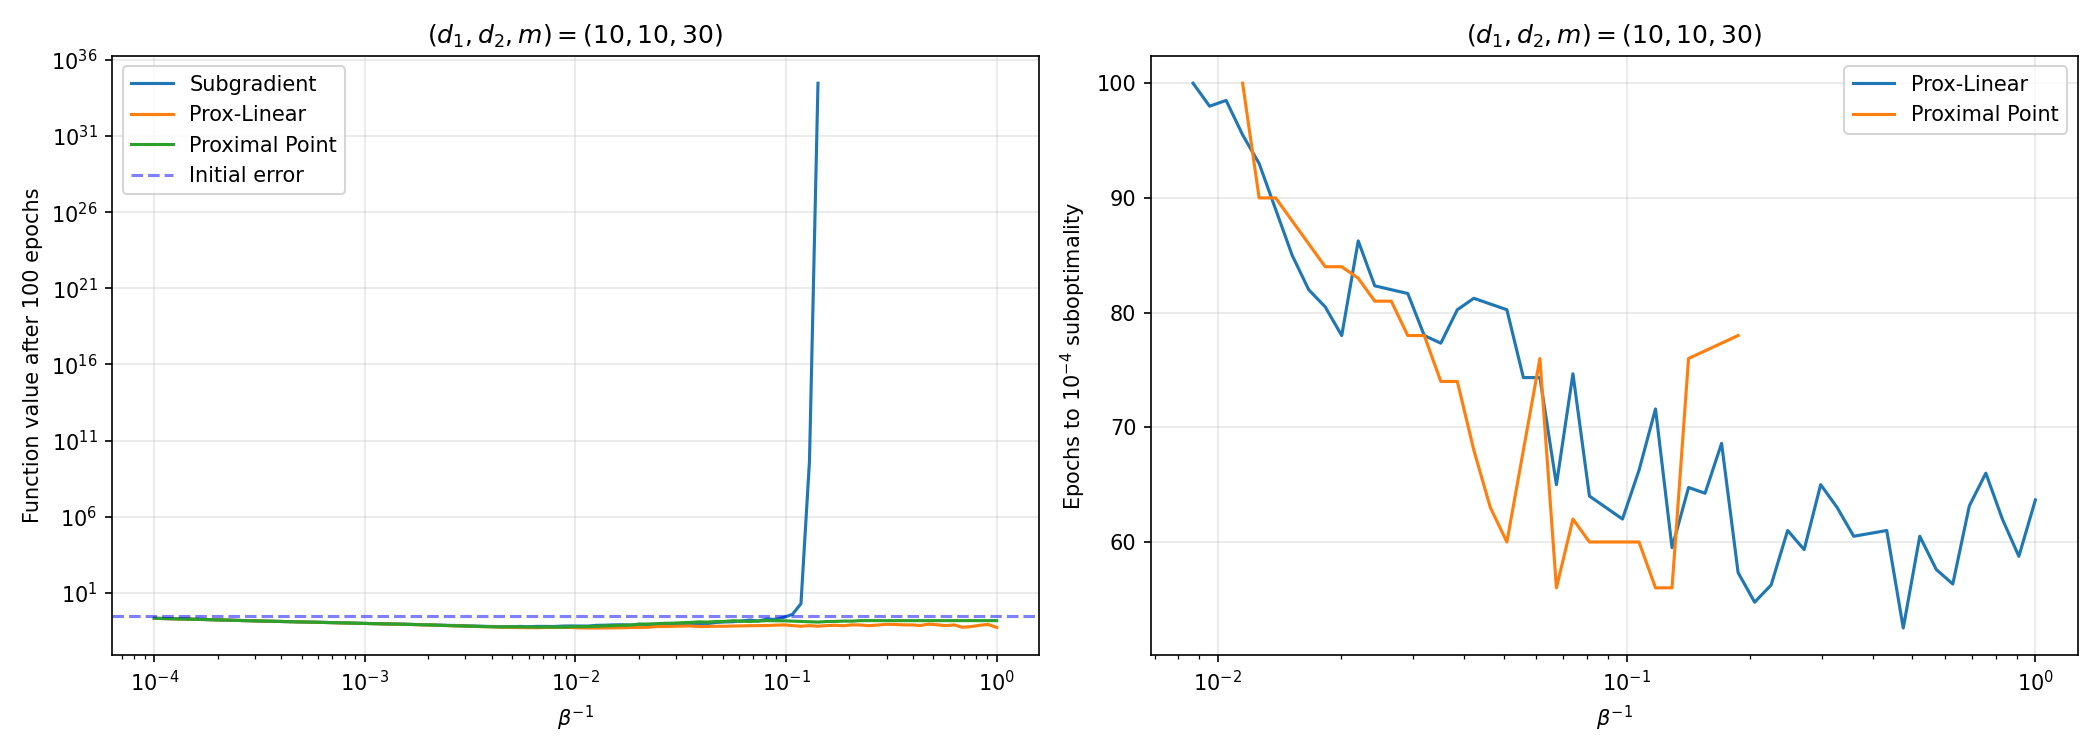
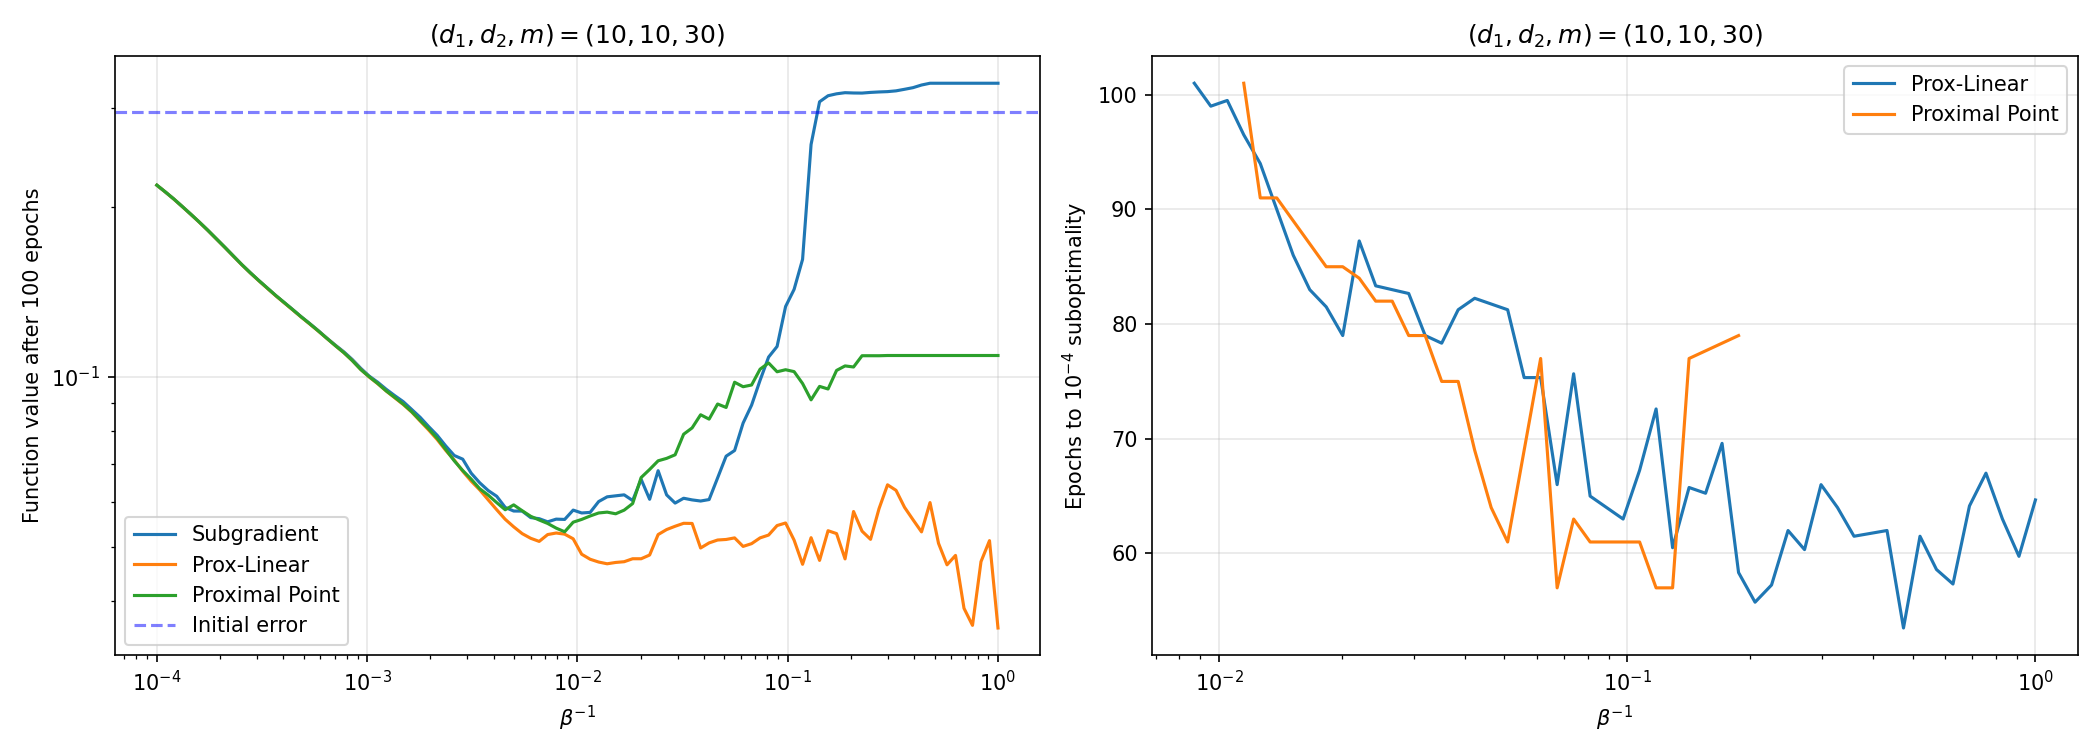
feat: update initial error computation in blind deconvolution and phase retrieval experiments to average over multiple rounds; adjust ylabel for clarity

diff --git a/experiments/phase_retrieval.py b/experiments/phase_retrieval.py
@@ -160,9 +160,8 @@ def plot_config(d, m, inv_betas, final_objs, epochs_to_target, initial_error, sa
         y=initial_error, color="blue", linestyle="--", alpha=0.5, label="Initial error"
     )
     ax1.set_xlabel(r"$\beta^{-1}$")
-    ax1.set_ylabel("Function value after 100 epochs")
+    ax1.set_ylabel("Best function value")
     ax1.set_title(f"(d, m) = ({d}, {m})")
-    ax1.set_yscale("log")
     ax1.set_xscale("log")
     ax1.legend()
     ax1.grid(True, alpha=0.3)
@@ -196,13 +195,17 @@ def main():
     for d, m in configs:
         inv_betas, final_objs, epochs_to_target = run_config(d, m)
 
-        # Compute initial error for the dashed line
+        # Compute initial error averaged over the same rounds used in run_config
         data, _ = generate_phase_retrieval_data(d, m, seed=42)
         prob = SubgradientPhaseRetrieval(rho=2.0)
-        torch.manual_seed(0)
-        x0 = torch.randn(d)
-        x0 = x0 / torch.norm(x0)
-        initial_error = prob.population_objective(x0, data)
+        n_rounds = 15
+        initial_errors = []
+        for r in range(n_rounds):
+            torch.manual_seed(r)
+            x0 = torch.randn(d)
+            x0 = x0 / torch.norm(x0)
+            initial_errors.append(prob.population_objective(x0, data))
+        initial_error = np.mean(initial_errors)
 
         plot_config(
             d, m, inv_betas, final_objs, epochs_to_target, initial_error, save_dir

diff --git a/experiments/blind_deconvolution.py b/experiments/blind_deconvolution.py
@@ -169,9 +169,8 @@ def plot_config(
         y=initial_error, color="blue", linestyle="--", alpha=0.5, label="Initial error"
     )
     ax1.set_xlabel(r"$\beta^{-1}$")
-    ax1.set_ylabel("Function value after 100 epochs")
+    ax1.set_ylabel("Best function value")
     ax1.set_title(f"$(d_1, d_2, m) = ({d1}, {d2}, {m})$")
-    ax1.set_yscale("log")
     ax1.set_xscale("log")
     ax1.legend()
     ax1.grid(True, alpha=0.3)
@@ -207,10 +206,14 @@ def main():
         data, _ = generate_blind_deconv_data(d1, d2, m, seed=42)
         prob = BlindDeconvSubgradient(d1=d1, rho=2.0)
         d_total = d1 + d2
-        torch.manual_seed(0)
-        z0 = torch.randn(d_total)
-        z0 = z0 / torch.norm(z0)
-        initial_error = prob.population_objective(z0, data)
+        n_rounds = 15
+        initial_errors = []
+        for r in range(n_rounds):
+            torch.manual_seed(r)
+            z0 = torch.randn(d_total)
+            z0 = z0 / torch.norm(z0)
+            initial_errors.append(prob.population_objective(z0, data))
+        initial_error = np.mean(initial_errors)
 
         plot_config(
             d1, d2, m, inv_betas, final_objs, epochs_to_target, initial_error, save_dir